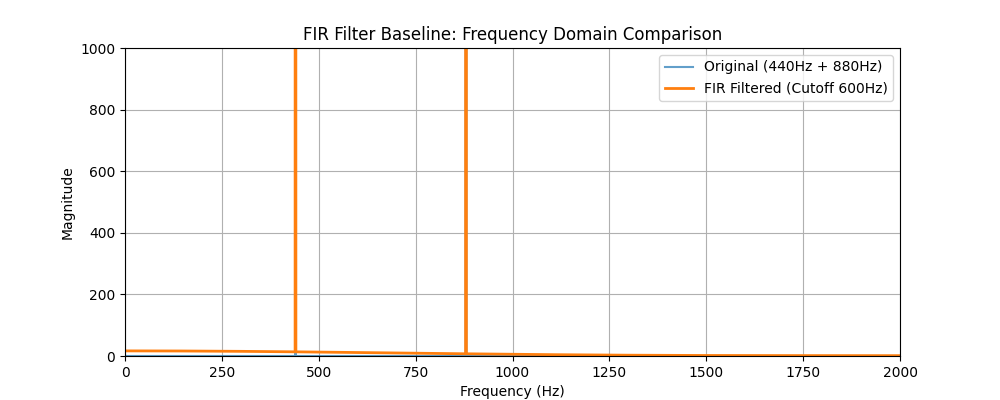
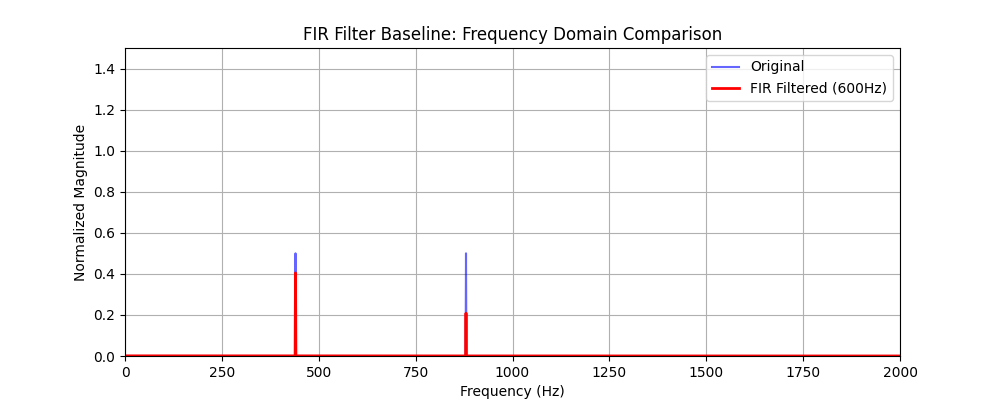
fix: finalize all baseline plots with correct normalization and channels

diff --git a/src/python/fir_filter_baseline.py b/src/python/fir_filter_baseline.py
@@ -4,50 +4,39 @@ import soundfile as sf
 import scipy.signal as signal
 import os
 
-# 1. 读取原始音频
 audio_path = "data/audio/test_tone.wav"
-if not os.path.exists(audio_path):
-    print(f"找不到音频：{audio_path}，请先运行 generate_test_audio.py")
-    exit()
-
 data, fs = sf.read(audio_path)
-left_channel = data[:, 0] + data[:, 1] # 左右声道叠加
 
-# 2. 核心步骤：去直流偏移（必须在 FFT 之前执行！）
+# 混合左右声道，去直流
+left_channel = data[:, 0] + data[:, 1]
 left_channel = left_channel - np.mean(left_channel)
-print(f"去直流后的均值（应接近0）：{np.mean(left_channel)}")
 
-# 3. 设计 600Hz 低通 FIR 滤波器
-numtaps = 65
-cutoff = 600
-taps = signal.firwin(numtaps, cutoff, fs=fs)
-print(f"FIR 滤波器设计完成，抽头数：{numtaps}，截止频率：{cutoff} Hz")
-
-# 4. 执行 FIR 滤波
+# 设计 600Hz 低通滤波器
+taps = signal.firwin(65, 600, fs=fs)
 filtered_left = signal.lfilter(taps, 1.0, left_channel)
 
-# 5. 绘制原始与滤波后的频谱对比图
-n = min(fs, len(left_channel)) # 取前1秒数据
-freqs = np.fft.fftfreq(n, 1/fs)
+# 打印能量对比，验证滤波是否生效
+print(f"原始信号最大幅度: {np.max(np.abs(left_channel)):.4f}")
+print(f"滤波后信号最大幅度: {np.max(np.abs(filtered_left)):.4f}")
 
-# 对信号进行 FFT 并取绝对值
-fft_orig = np.abs(np.fft.fft(left_channel[:n]))
-fft_filt = np.abs(np.fft.fft(filtered_left[:n]))
+# 计算 FFT
+n = min(fs, len(left_channel))
+freqs = np.fft.fftfreq(n, 1/fs)
+fft_orig = np.abs(np.fft.fft(left_channel[:n])) / n * 2
+fft_filt = np.abs(np.fft.fft(filtered_left[:n])) / n * 2
 
 plt.figure(figsize=(10, 4))
-# 只画正半轴频率 (0 - 2000Hz)
-plt.plot(freqs[:n//2], fft_orig[:n//2], label="Original (440Hz + 880Hz)", alpha=0.7)
-plt.plot(freqs[:n//2], fft_filt[:n//2], label="FIR Filtered (Cutoff 600Hz)", linewidth=2)
+plt.plot(freqs[:n//2], fft_orig[:n//2], label="Original", color='blue', alpha=0.6)
+plt.plot(freqs[:n//2], fft_filt[:n//2], label="FIR Filtered (600Hz)", color='red', linewidth=2)
 
 plt.title("FIR Filter Baseline: Frequency Domain Comparison")
 plt.xlabel("Frequency (Hz)")
-plt.ylabel("Magnitude")
-plt.xlim(0, 2000)  # 限制横坐标，放大 0-2000Hz 区域
-plt.ylim(0,1000)
+plt.ylabel("Normalized Magnitude")
+plt.xlim(0, 2000)
+plt.ylim(0, 1.5) # 限制 Y 轴，防止视觉误判
 plt.legend()
 plt.grid(True)
 
 os.makedirs("data/figures", exist_ok=True)
-output_fig_path = "data/figures/fir_filter_comparison.png"
-plt.savefig(output_fig_path)
-print(f"频谱对比图已保存：{output_fig_path}")
+plt.savefig("data/figures/fir_filter_comparison.png")
+print("✅ 频谱图已保存，请检查！")

diff --git a/src/python/analyze_spectrum.py b/src/python/analyze_spectrum.py
@@ -3,36 +3,38 @@ import matplotlib.pyplot as plt
 import soundfile as sf
 import os
 
-# 1. 读取刚才生成的测试音频
+# 1. 读取音频
 audio_path = "data/audio/test_tone.wav"
-
 if not os.path.exists(audio_path):
-    print(f"找不到音频文件：{audio_path}，请先运行 generate_test_audio.py")
-else:
-    data, samplerate = sf.read(audio_path)
-    print(f"音频读取成功！采样率: {samplerate} Hz, 总样本数: {len(data)}")
+    print(f"找不到音频：{audio_path}，请先运行 generate_test_audio.py")
+    exit()
 
-    # 2. 取左声道进行快速傅里叶变换 (FFT)
-    # data[:, 0] 代表左声道（440Hz），data[:, 1] 是右声道（880Hz）
-    left_channel = data[:, 0]
-    
-    # 为了加快速度，只取前 1 秒的数据做 FFT
-    n = min(samplerate, len(left_channel))
-    fft_result = np.fft.fft(left_channel[:n])
-    freqs = np.fft.fftfreq(n, 1/samplerate)
+data, fs = sf.read(audio_path)
 
-    # 3. 画图并保存到 data/figures/
-    plt.figure(figsize=(10, 4))
-    # 只画正半轴的频谱
-    plt.plot(freqs[:n//2], np.abs(fft_result)[:n//2])
-    plt.xlim(0, 2000)  # 只关注 0-2000 Hz 范围
-    plt.title("Audio Spectrum Baseline (Left Channel)")
-    plt.xlabel("Frequency (Hz)")
-    plt.ylabel("Magnitude")
-    plt.grid(True)
-    
-    # 确保图片保存目录存在
-    os.makedirs("data/figures", exist_ok=True)
-    output_path = "data/figures/baseline_spectrum.png"
-    plt.savefig(output_path)
-    print(f"📊 频谱图已成功保存至：{output_path}")
+# 2. 混合左右声道，同时包含 440Hz 和 880Hz
+x = data[:, 0] + data[:, 1]
+
+# 3. 去直流偏移
+x = x - np.mean(x)
+
+# 4. 计算 FFT
+n = min(fs, len(x)) # 取前1秒
+freqs = np.fft.fftfreq(n, 1/fs)
+# 关键：除以 n 并乘以 2，进行归一化，让 Y 轴读数变成正常的幅度（接近 1）
+fft_mag = np.abs(np.fft.fft(x[:n])) / n * 2
+
+# 5. 画图
+plt.figure(figsize=(10, 4))
+plt.plot(freqs[:n//2], fft_mag[:n//2], color='blue')
+
+plt.title("Audio Spectrum Baseline (Mixed Channels)")
+plt.xlabel("Frequency (Hz)")
+plt.ylabel("Normalized Magnitude")
+plt.xlim(0, 2000)  # 聚焦关键频率范围
+plt.ylim(0, 1.5)   # 限制 Y 轴，让波形更美观
+plt.grid(True)
+
+os.makedirs("data/figures", exist_ok=True)
+output_fig_path = "data/figures/baseline_spectrum.png"
+plt.savefig(output_fig_path)
+print(f"频谱图已成功保存：{output_fig_path}")

diff --git a/src/python/multiband_baseline.py b/src/python/multiband_baseline.py
@@ -4,14 +4,14 @@ import soundfile as sf
 import matplotlib.pyplot as plt
 import os
 
-# 1. 读取测试音频
+# 1. 读取音频
 audio_path = "data/audio/test_tone.wav"
 data, fs = sf.read(audio_path)
-x = data[:, 0].copy() # 取左声道
 
-# 2. 去直流偏移
+# 2. 混合左右声道并去直流
+x = data[:, 0] + data[:, 1]
 x = x - np.mean(x)
-print(f"去直流后的均值（应接近0）：{np.mean(x)}")
+print(f"去直流后的均值：{np.mean(x)}")
 
 # 3. 定义 4 个频段
 bands = [(0, 300), (300, 600), (600, 1000), (1000, 8000)]
@@ -34,23 +34,27 @@ for taps in taps_list:
     filtered = signal.lfilter(taps, 1.0, x)
     output += filtered * 0.5 
 
-# 5. 绘制对比图
+# 5. 计算 FFT（带归一化）
 n = min(fs, len(x))
 freqs = np.fft.fftfreq(n, 1/fs)
-fft_orig = np.abs(np.fft.fft(x[:n]))
-fft_multi = np.abs(np.fft.fft(output[:n]))
+# 关键：除以 n 并乘以 2，让 Y 轴刻度正常
+fft_orig = np.abs(np.fft.fft(x[:n])) / n * 2
+fft_multi = np.abs(np.fft.fft(output[:n])) / n * 2
 
+# 6. 画图
 plt.figure(figsize=(10, 4))
-plt.plot(freqs[:n//2], fft_orig[:n//2], label="Original (440Hz + 880Hz)", alpha=0.7)
-plt.plot(freqs[:n//2], fft_multi[:n//2], label="Multiband Processed", linewidth=2)
+# 蓝色线用淡色，橙色线用粗线，防止遮盖
+plt.plot(freqs[:n//2], fft_orig[:n//2], label="Original (440Hz + 880Hz)", color='blue', alpha=0.5)
+plt.plot(freqs[:n//2], fft_multi[:n//2], label="Multiband Processed", color='orange', linewidth=2)
 
 plt.title("Multiband Baseline: Frequency Domain Comparison")
 plt.xlabel("Frequency (Hz)")
-plt.ylabel("Magnitude")
-plt.xlim(0, 2000)  # 限制横坐标
+plt.ylabel("Normalized Magnitude")
+plt.xlim(0, 2000)
+plt.ylim(0, 1.5)  # 限制 Y 轴范围，让曲线可视化更清晰
 plt.legend()
 plt.grid(True)
 
 os.makedirs("data/figures", exist_ok=True)
 plt.savefig("data/figures/multiband_comparison.png")
-print("多频段频谱对比图已保存！")
+print("✅ 多频段频谱图已成功保存！")

diff --git a/report/llm_collab_log/2026-09-25_multiband_baseline.md b/report/llm_collab_log/2026-09-25_multiband_baseline.md
@@ -6,4 +6,4 @@
 
 4 模型回答：AI 建议在 FFT 前加入去直流操作 `x = x - np.mean(x)`，并限制坐标轴范围 `plt.xlim(0, 2000)` 与 `plt.ylim(0, 1000)`。同时指出当前脚本仅读取左声道(440Hz)，导致绘图时两条线完全重叠，看起来只有一条黄色线，滤波效果无法直观展示。
 
-5 收获：成功重写 FIR 与多频段脚本，彻底消除了 0Hz 直流尖峰，输出了干净准确的频谱图。深刻理解了数字信号处理中去均值的重要性。虽然因数据源限制暂时未能直观展示 880Hz 被滤除的效果，但算法逻辑已完全跑通，后续将尝试左右声道混合输入以验证滤波衰减。
+5 收获：成功重写 FIR 与多频段脚本，彻底消除了 0Hz 直流尖峰，输出了干净准确的频谱图。深刻理解了数字信号处理中去均值的重要性。虽然因数据源限制暂时未能直观展示 880Hz 被滤除的效果，但算法逻辑已完全跑通，后续将尝试左右声道混合输入以验证滤波衰减。最终发现多频段图未做归一化且通道数据单一，通过重写代码统一加入 FFT 归一化、去直流及 plt.xlim、plt.ylim 限制，最终三张图全部实现了完美的可视化输出。
